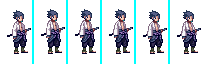
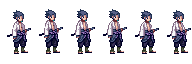
점프 구현 반정도 완료
점프 중 이동하는거 구현중

diff --git a/p1.py b/p1.py
@@ -7,6 +7,7 @@ import game_world
 # state event check
 # ( state event type, event value )
 
+
 def right_down(e):
     return e[0] == 'INPUT' and e[1].type == SDL_KEYDOWN and e[1].key == SDLK_RIGHT
 
@@ -27,6 +28,14 @@ def space_down(e):
 
 def time_out(e):
     return e[0] == 'TIME_OUT'
+
+def jump_end(e):
+    return e[0] == 'JUMP_END'
+# def jump_end(e):
+#     global P1
+#     if P1.jump_count >= 40:
+#         return e[0] == 'jump_end'
+#     pass
 
 
 class Idle:
@@ -54,7 +63,10 @@ class Idle:
     @staticmethod
     def draw(p1):
         # p1.image.clip_draw(p1.frame * 34, 0, 30, 64, p1.x, p1.y)
-        p1.sasuke_idle.clip_composite_draw(p1.frame * 34+1, p1.action*64, 30, 64, 0, '', p1.x, p1.y, 100 , 200)
+        if p1.action == 0:
+            p1.sasuke_idle.clip_composite_draw(p1.frame * 32, 0, 32, 64, 0, 'h', p1.x, p1.y, 100, 200)
+        elif p1.action == 1:
+            p1.sasuke_idle.clip_composite_draw(p1.frame * 32, 0, 32, 64, 0, '', p1.x, p1.y, 100 , 200)
 
 
 class Run:
@@ -81,15 +93,22 @@ class Run:
     def draw(p1):
        # p1.sasuke_run.clip_draw(p1.frame * 64, p1.action * 31, 100, 100, p1.x, p1.y)
         if p1.action == 0:
-            p1.sasuke_run.clip_composite_draw(p1.frame * 66, 0, 63, 31, 0, '', p1.x, p1.y, 230, 110)
+            p1.sasuke_run.clip_composite_draw(p1.frame * 64, 0, 64, 32, 0, 'h', p1.x, p1.y, 200, 100)
         elif p1.action == 1:
-            p1.sasuke_run.clip_composite_draw(p1.frame * 66, 0, 63, 31, 0, 'h', p1.x, p1.y, 230, 110)
+            p1.sasuke_run.clip_composite_draw(p1.frame * 64, 0, 64, 32, 0, '', p1.x, p1.y, 200, 100)
+
+
+def key_event(SDL_KEYUP, SDLK_SPACE):
+    pass
+
 
 class Jump:
 
     @staticmethod
     def enter(p1, e):
-        p1.dre = 1
+        p1.jump_count = 0
+        p1.dir = 1
+        p1.frame = 0
         if right_down(e) or left_up(e): # 오른쪽으로 RUN
             p1.dir, p1.face_dir, p1.action = 1, 1, 1
         elif left_down(e) or right_up(e): # 왼쪽으로 RUN
@@ -97,23 +116,40 @@ class Jump:
 
     @staticmethod
     def exit(p1, e):
+        p1.jump_count = 0
+        p1.frame = 0
         pass
 
     @staticmethod
     def do(p1):
         p1.jump_count += 1
-        if p1.jump_count == 10:
+
+        # if right_down(e):
+        #     p1.x += p1.dir * 10  # 오른쪽 방향으로 이동
+        # elif left_down(e):
+        #     p1.x += p1.dir * 10  # 왼쪽 방향으로 이동
+
+        if p1.jump_count % 10 == 0:
             p1.frame = (p1.frame + 1) % 4
+            #p1.jump_count = 0
+
         if p1.frame < 2:
             p1.y += p1.dir * 10
         else:
             p1.y -= p1.dir * 10
+
+        if p1.jump_count >= 40:
+            p1.state_machine.handle_event(('JUMP_END', None))
         delay(0.01)
 
     @staticmethod
     def draw(p1):
-       # p1.sasuke_run.clip_draw(p1.frame * 64, p1.action * 31, 100, 100, p1.x, p1.y)
-       p1.sasuke_run.clip_composite_draw(p1.frame * 66, p1.action * 31, 63, 31, 0, '', p1.x, p1.y, 230, 110)
+        if p1.action == 0:
+            p1.sasuke_jump.clip_composite_draw(p1.frame * 32, 0, 32, 64, 0, 'h', p1.x, p1.y, 100, 200)
+        elif p1.action == 1:
+            p1.sasuke_jump.clip_composite_draw(p1.frame * 32, 0, 32, 64, 0, '', p1.x, p1.y, 100, 200)
+
+
 
 class StateMachine:
     def __init__(self, p1):
@@ -122,7 +158,7 @@ class StateMachine:
         self.transitions = {
             Idle: {right_down: Run, left_down: Run, left_up: Run, right_up: Run, space_down: Jump},
             Run: {right_down: Idle, left_down: Idle, right_up: Idle, left_up: Idle, space_down: Jump},
-
+            Jump: {jump_end: Idle}
         }
 
     def start(self):
@@ -156,8 +192,9 @@ class P1:
         self.action = 3
         self.dir = 0
         self.face_dir = 1
-        self.sasuke_idle = load_image('sasuke_idle_test.png')
+        self.sasuke_idle = load_image('sasuke_idle.png')
         self.sasuke_run = load_image('sasuke_run.png')
+        self.sasuke_jump = load_image('sasuke_jump.png')
         self.state_machine = StateMachine(self)
         self.state_machine.start()
         self.jump_count = 0
